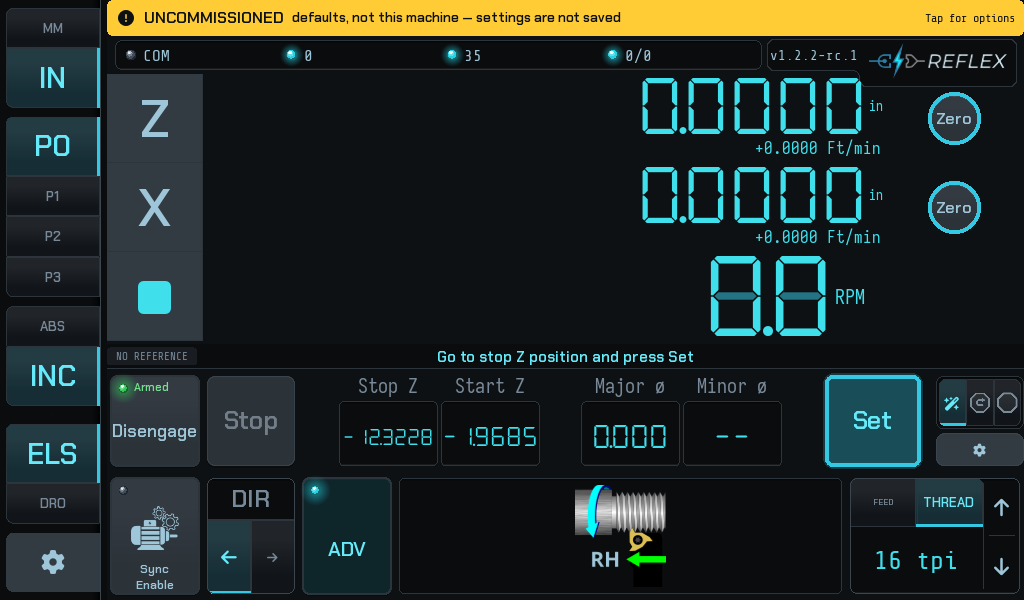
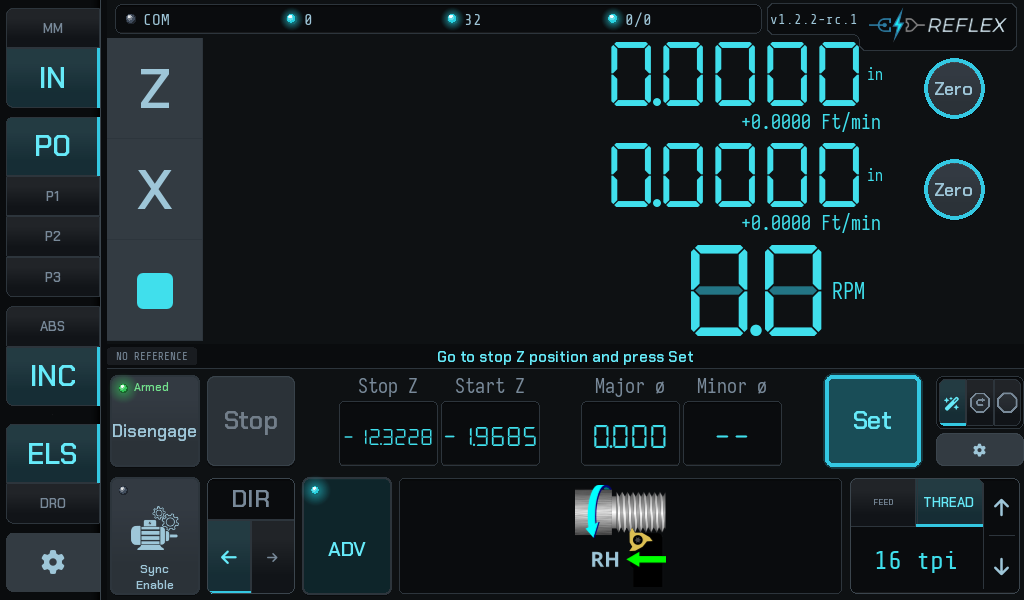
Pose the README capture as a commissioned machine
Every home and wizard screenshot wore the yellow UNCOMMISSIONED strip. The
strip is not a style: MainApp.build latches commissioning_state once and sets
app.uncommissioned from it, and the capture ran against an empty config home,
which is exactly what a freshly flashed card looks like. Nobody should be
running the product in that state, so showing it as the normal look was wrong.

The capture now seeds that config home the way a commissioned install has it:
a non-empty Els-0.yaml with representative values plus enough dispatcher files
to meet the restore contract, counted from the app's own constants and checked
with is_commissioned before the app starts. App code is unchanged.

The capture also refuses to write a frame whose screen shows the strip, reading
both the app flag and the strip's own geometry. UNCOMMISSIONED_FRAMES lists the
frames that are meant to show it; it is empty, since none of them are. With the
seeding disabled, the first frame fails with the strip reported as drawn.

The six setup frames that do not change are byte-identical; the home and wizard
frames and the region map are regenerated. The region map's sidebar box now
runs the full height of the left edge, as the guide says.

diff --git a/ui/scripts/capture_readme_screenshots.py b/ui/scripts/capture_readme_screenshots.py
@@ -74,6 +74,56 @@ TARGET_SIZE = [1024, 600]
 FAILED = []
 WROTE = []
 
+
+def _commission_this_machine():
+    """Give the isolated HOME the config directory a commissioned lathe has.
+
+    The UNCOMMISSIONED strip is not a style the capture can switch off: the app
+    asks reflex.utils.commissioning_state.latch() once, in MainApp.build, and
+    sets app.uncommissioned = not commissioned. That predicate is the restore
+    contract -- a non-empty Els-0.yaml plus at least MIN_YAML_FILES *.yaml files
+    directly in the config directory -- so an EMPTY config home reads as a
+    freshly flashed card, and every frame wore the strip. A machine somebody has
+    measured has those files, so that is what this writes.
+
+    The values are representative, invented for the capture. The other files
+    leave every property at its class default; the runtime overrides in _arm()
+    are what the frames show. The count comes from the app's own constants, so
+    a change to the bar moves this with it.
+    """
+    import yaml
+    from reflex.utils import commissioning_state as cs
+    from reflex.utils.paths import config_dir
+
+    cfg = config_dir()
+    cfg.mkdir(parents=True, exist_ok=True)
+    els = {
+        "spindle_axis_index": 2, "z_axis_index": 0, "x_axis_index": 1,
+        "els_cal_ceiling_steps": 1008,
+        "els_cal_motion_thresh_counts": 2,
+        "els_cal_max_spread_steps": 12,
+        "els_cal_measured_legs": [302, 298, 300],
+    }
+    (cfg / cs.ANCHOR_FILE).write_text(yaml.dump(els))
+    # Stems of files a real install holds that are safe to leave at defaults.
+    # NO Axis-N.yaml: board._create_axes builds identity axes from CoordBar-N
+    # only when it finds none, and a stub Axis file would stand in for that and
+    # leave every axis on input 0. The remainder is padding to the bar; the app
+    # counts *.yaml files and reads nothing else from these.
+    stems = (["ServoBar-0", "Formats-0", "Device-0"]
+             + [f"CoordBar-{i}" for i in range(4)]
+             + [f"Spare-{i}" for i in range(cs.MIN_YAML_FILES)])
+    for stem in stems:
+        if len(list(cfg.glob("*.yaml"))) >= cs.MIN_YAML_FILES:
+            break
+        (cfg / f"{stem}.yaml").write_text("{}\n")
+    assert cs.is_commissioned(cfg), (
+        f"the seeded config in {cfg} does not meet the restore contract "
+        f"({cs.ANCHOR_FILE} plus {cs.MIN_YAML_FILES} .yaml files)")
+
+
+_commission_this_machine()
+
 app = MainApp()
 
 
@@ -266,9 +316,56 @@ def _find(pred, root=None):
     return None
 
 
+# Frames that are MEANT to show the UNCOMMISSIONED strip. Empty on purpose: a
+# screenshot of the warning state is an exhibit about that state, and nothing
+# in the README is one. Nobody should be running a machine in that state, so
+# showing it as the ordinary look of the product would teach the wrong thing.
+# A name added here must really show the strip (see _assert_banner).
+UNCOMMISSIONED_FRAMES = frozenset()
+
+
+def _banner_state():
+    """Return (shown, why) for the UNCOMMISSIONED strip on the live screen.
+
+    Reads both the app flag the strip is bound to and the strip's own geometry,
+    so a frame cannot slip through on one of them alone.
+    """
+    # Searched from the home SCREEN, not the window: the setup frames are taken
+    # with another screen current, which takes the home screen out of the tree.
+    banner = _find(lambda w: type(w).__name__ == "UncommissionedBanner",
+                   root=app.manager.get_screen("home"))
+    assert banner is not None, (
+        "cannot find the UncommissionedBanner to check it is hidden -- if it "
+        "was renamed, this check has stopped checking anything")
+    reasons = []
+    if app.uncommissioned:
+        reasons.append("app.uncommissioned is True")
+    if banner.active:
+        reasons.append("banner.active is True")
+    if banner.height > 0 and banner.opacity > 0:
+        reasons.append(f"banner is drawn (h={round(banner.height)} "
+                       f"opacity={banner.opacity})")
+    return bool(reasons), "; ".join(reasons)
+
+
+def _assert_banner(name):
+    """Refuse a frame whose screen shows the UNCOMMISSIONED strip, unless the
+    frame is on the allowlist; refuse an allowlisted frame that does not."""
+    shown, why = _banner_state()
+    if name in UNCOMMISSIONED_FRAMES:
+        assert shown, (f"{name} is on the UNCOMMISSIONED allowlist but the "
+                       f"screen does not show the strip -- drop it from the list")
+        return
+    assert not shown, (
+        f"{name}: the screen shows the UNCOMMISSIONED strip ({why}). Pose the "
+        f"capture as a commissioned machine (see _commission_this_machine); "
+        f"only frames in UNCOMMISSIONED_FRAMES may show it.")
+
+
 def _shot(name):
     out = os.path.join(OUT_DIR, f"{name}.png")
     _settle()
+    _assert_banner(name)
     # First export under-renders (only one tile); export twice.
     app.root.export_to_png(out)
     app.root.export_to_png(out)
